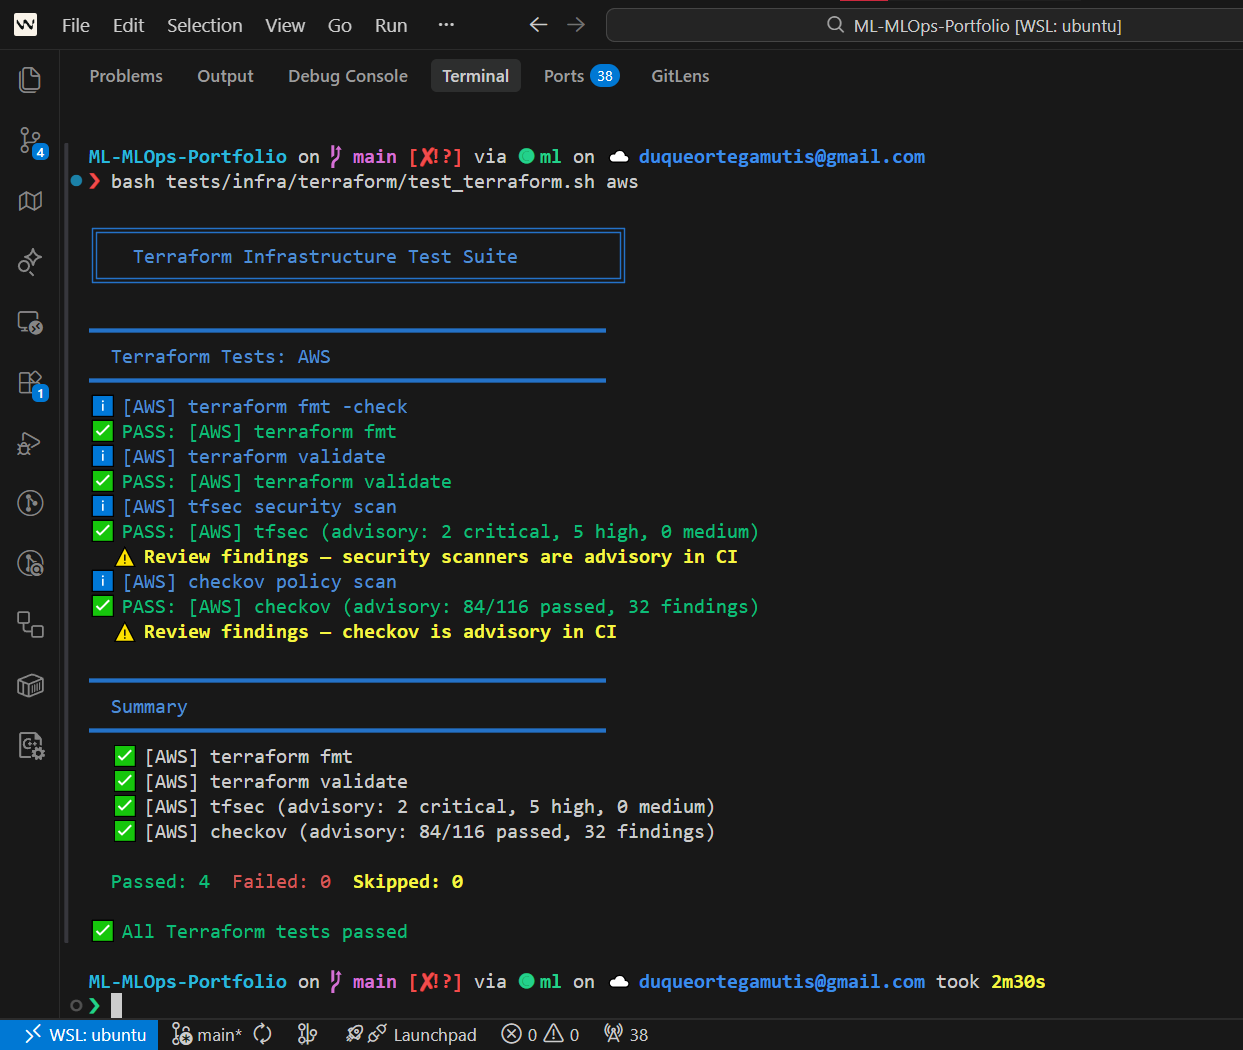
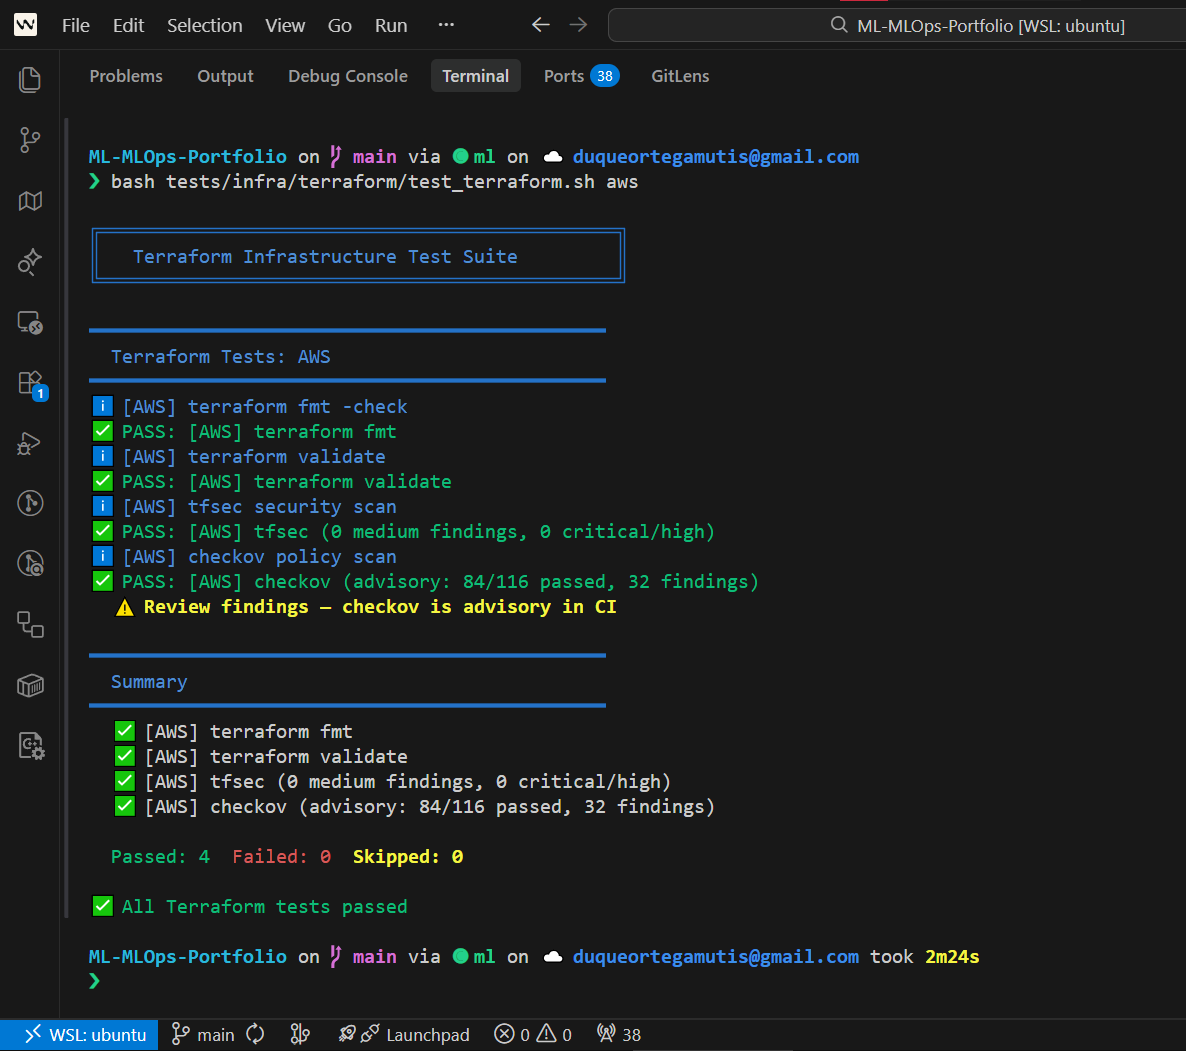
docs: add ADR-013 multi-cloud parity policy + AWS evidence screenshots
- ADR-013: documents intentional GKE vs EKS asymmetries (node count,
  instance size, ingress type) and functional parity requirements
- Add AWS console screenshots (EKS, ECR, S3)
- Add AWS terminal screenshots (kubectl, health checks, SHAP, hero)
- Update CI/CD and Terraform screenshots

diff --git a/docs/decisions/013-multicloud-parity-policy.md b/docs/decisions/013-multicloud-parity-policy.md
@@ -1,0 +1,48 @@
+# ADR-013: Multi-Cloud Parity Policy (GKE vs EKS)
+
+**Status:** Accepted
+**Date:** 2026-03-13
+**Context:** ML-MLOps Portfolio runs identical ML workloads on GCP (GKE) and AWS (EKS).
+
+## Decision
+
+We accept **intentional asymmetries** between cloud environments while maintaining **functional parity** on all ML-critical workloads.
+
+### Functional Parity (must match)
+
+| Component | GCP (GKE) | AWS (EKS) | Status |
+|-----------|-----------|-----------|--------|
+| ML services (3 APIs) | ✅ Running | ✅ Running | Parity |
+| SHAP explainability | ✅ Working | ✅ Working | Parity |
+| Prometheus + Grafana | ✅ Running | ✅ Running | Parity |
+| MLflow tracking | ✅ Running | ✅ Running | Parity |
+| Drift detection CronJob | ✅ Completing | ⚠ Deployed (jobs failing) | Known gap |
+| CI/CD (GitHub Actions) | ✅ deploy-gcp.yml | ✅ deploy-aws.yml | Parity |
+| IaC (Terraform) | ✅ infra/terraform/gcp | ✅ infra/terraform/aws | Parity |
+
+### Accepted Asymmetries
+
+| Dimension | GCP | AWS | Rationale |
+|-----------|-----|-----|-----------|
+| Node count | 4 | 3 | Different instance sizes (e2-medium vs t3.small); autoscaler decides independently per cloud |
+| Instance memory | 4 GB/node | 2 GB/node | Cost-tier selection; AWS compensates with 3 nodes |
+| Ingress | GCE Ingress (L7 LB) | nginx-ingress (NodePort) | AWS account restriction on ELB creation; documented workaround |
+| Container registry | Artifact Registry | ECR (private) | Cloud-native equivalents |
+| Object storage | GCS | S3 | Cloud-native equivalents |
+| Drift detection | Jobs complete | Jobs fail (resource/network) | Bug to fix; CronJob manifest is deployed |
+
+### Node Count Philosophy
+
+The autoscaler operates **independently per cloud** based on:
+- Available memory per node (GKE 4GB vs EKS 2GB)
+- Pod resource requests and bin-packing efficiency
+- Cloud-specific overhead (kube-system, CNI, etc.)
+
+**Enterprise pattern**: Node counts should never be hard-coded equal across clouds. The autoscaler's job is to right-size per environment.
+
+## Consequences
+
+- Drift detection on AWS requires a follow-up fix (resource constraints or endpoint accessibility)
+- Node count differences are expected and not a parity violation
+- Ingress type difference is documented as a temporary AWS account limitation
+- All ML-critical paths (predict, explain, health, metrics) work identically on both clouds
